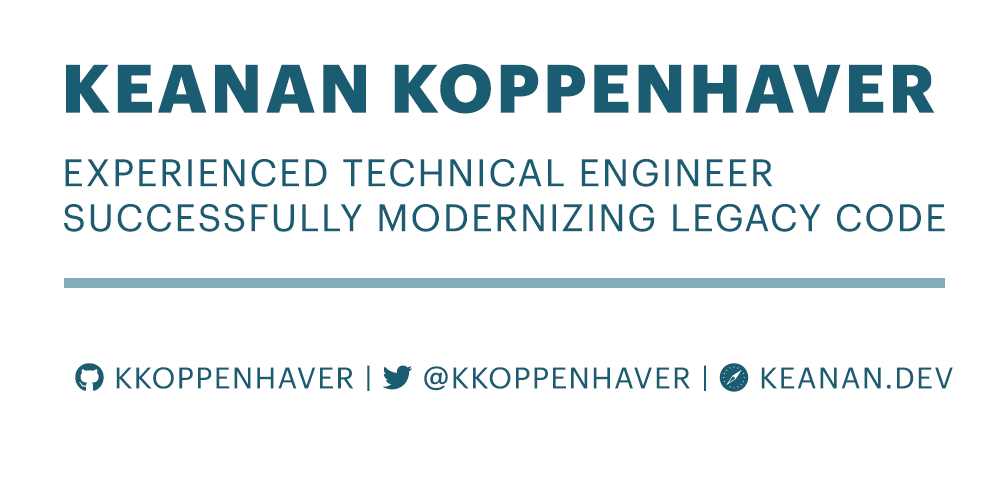
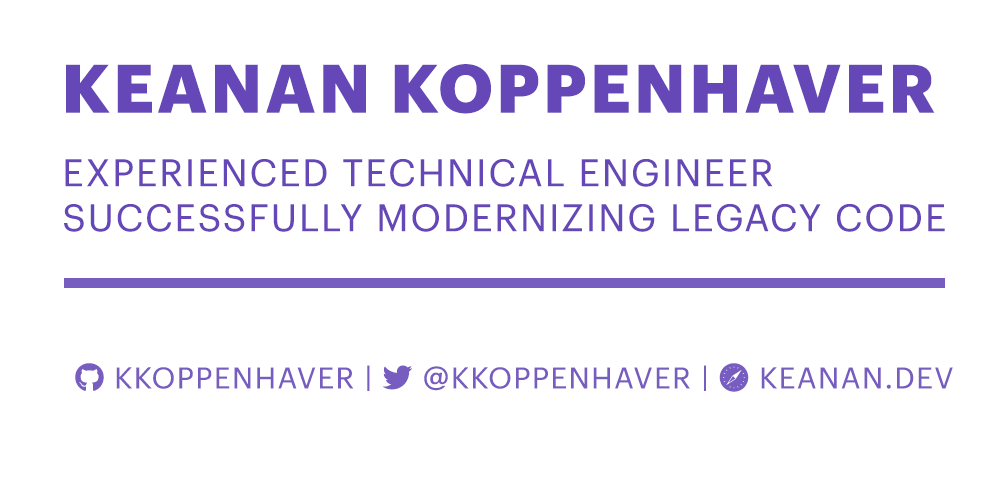
Update colors and card

diff --git a/index.html b/index.html
@@ -44,11 +44,11 @@
 		}
 
 		h1, h2 {
-			color: #1A5C71;
+			color: #6547b8;
 		}
 
 		h3, h4 {
-			color: #367DA2;
+			color: #785dc0;
 		}
 
 		h1 {
@@ -91,11 +91,11 @@
 		}
 
 		hr {
-			background-color: #1A5C71;
-			border-bottom: 1px solid #1A5C71;
-			border-top: 1px solid #1A5C71;
+			background-color: #6547b8;
+			border-bottom: 1px solid #6547b8;
+			border-top: 1px solid #6547b8;
 			border-style: none;
-			color: #1A5C71;
+			color: #6547b8;
 			height: 5px;
 		}
 
@@ -147,7 +147,7 @@
 		}
 
 		p.blue {
-			color: #367DA2;
+			color: #6547b8;
 			font-family: 'Oswald';
 			font-weight: 600;
 		}
